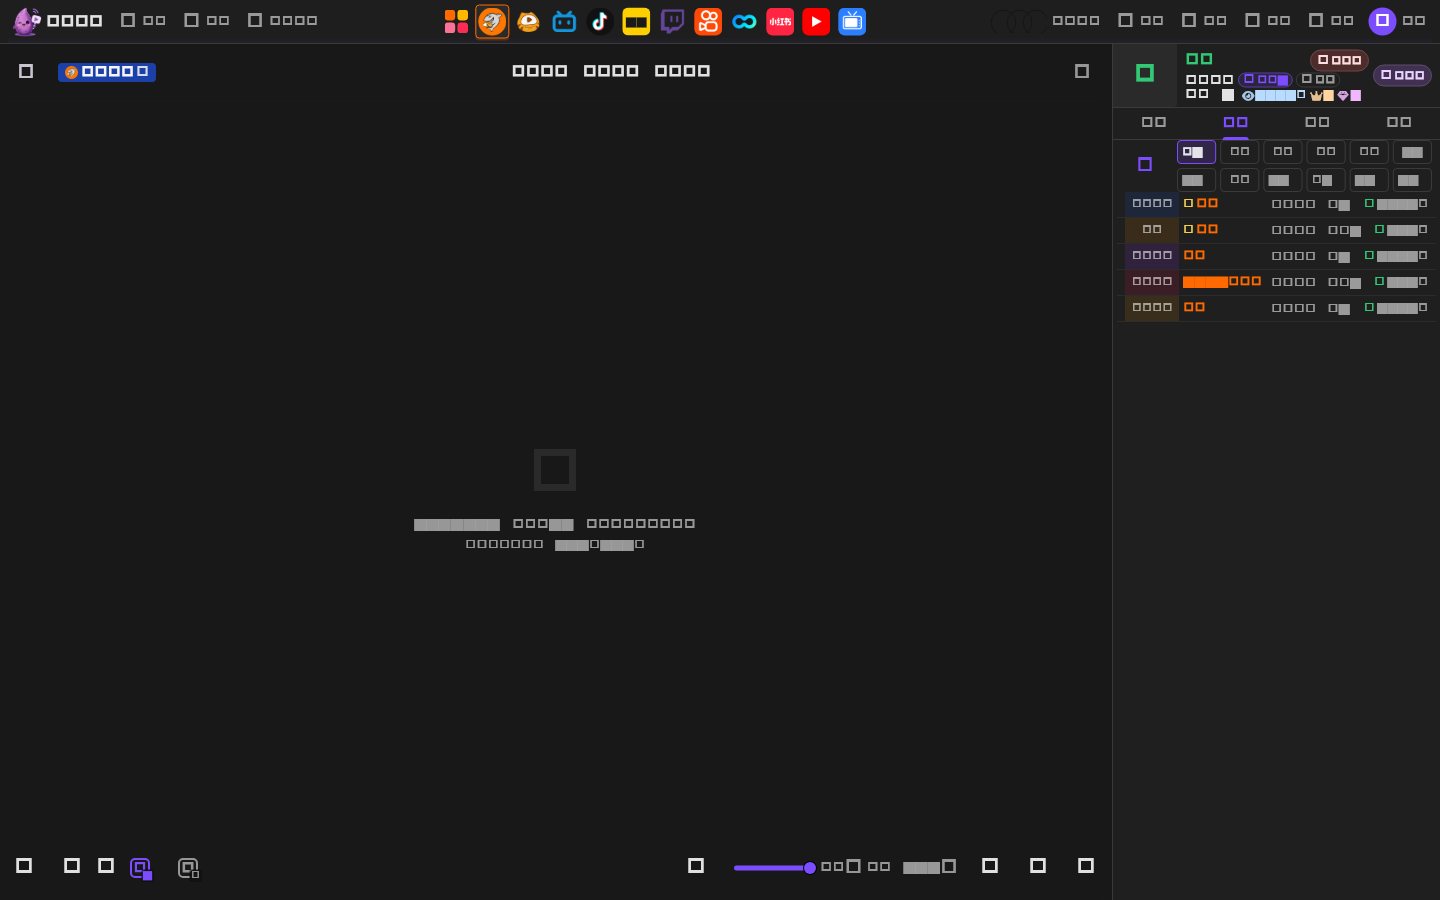
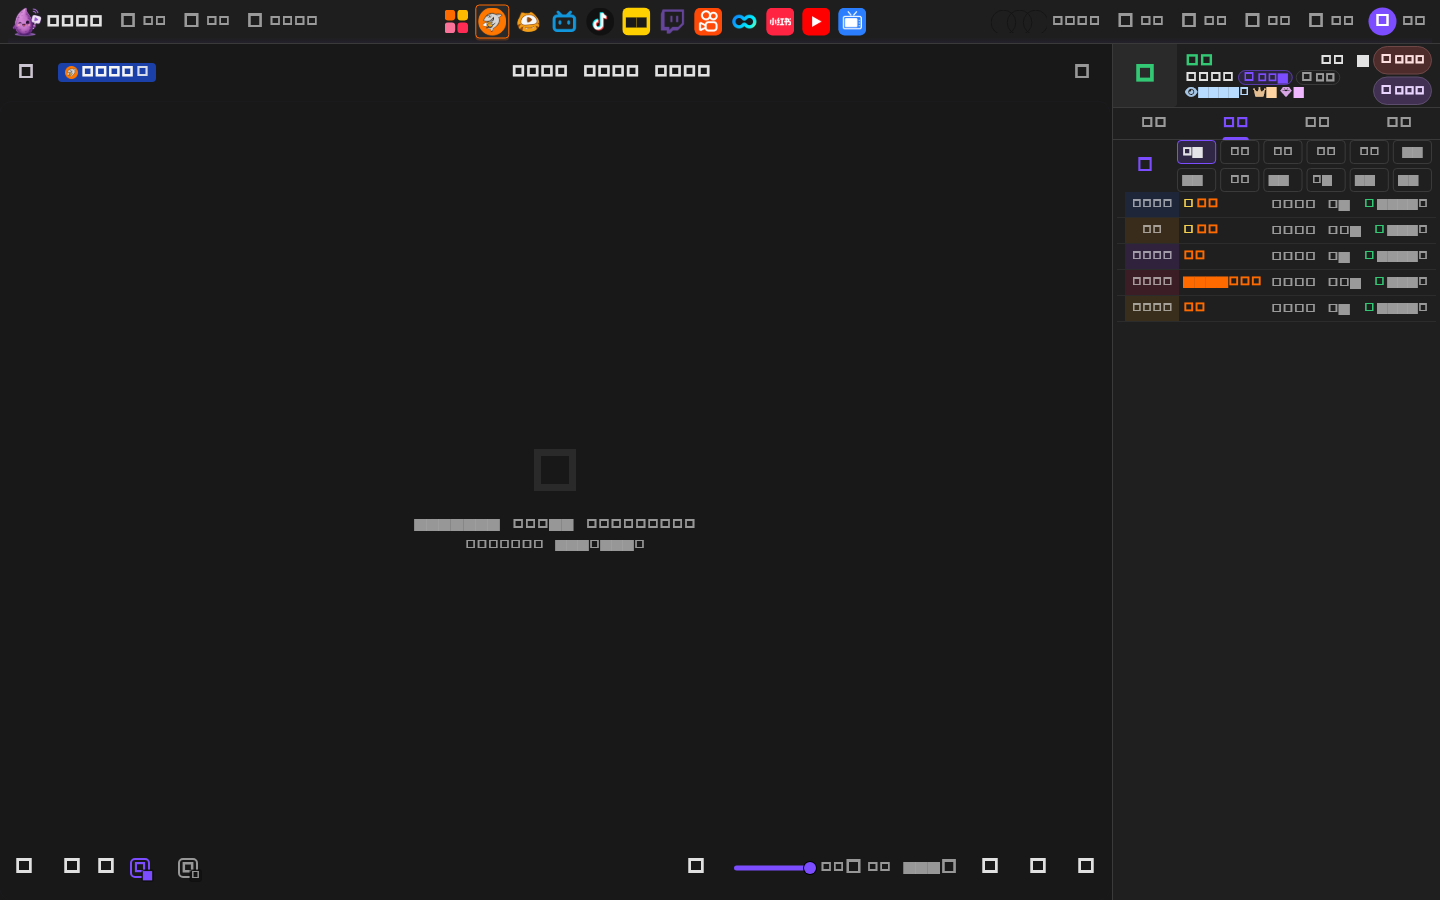
修正侧栏信息头:粉丝数移到第一排,右侧关注按钮恢复原样

Changed region(s): [[0.8125, 0.0311, 1.0, 0.1244]]

diff --git a/lib/src/features/play/widgets/side_panel/side_panel_header.dart b/lib/src/features/play/widgets/side_panel/side_panel_header.dart
@@ -93,7 +93,7 @@ class _SideHeader extends ConsumerWidget {
                 mainAxisAlignment: MainAxisAlignment.center,
                 crossAxisAlignment: CrossAxisAlignment.start,
                 children: [
-                  // 第一行:主播名(中文化) + 右侧「关注」。
+                  // 第一行:主播名(中文化) + 粉丝数「关注 N」。
                   Row(
                     children: [
                       Expanded(
@@ -113,31 +113,20 @@ class _SideHeader extends ConsumerWidget {
                         ),
                       ),
                       const SizedBox(width: AppSpacing.xs),
-                      SizedBox(
-                        width: 59,
-                        height: 22,
-                        child: _SideActionButton(
-                          key: const Key('play-side-follow-btn'),
-                          icon: followed
-                              ? Icons.favorite_rounded
-                              : Icons.favorite_border_rounded,
-                          label: followed ? '已关注' : '关注',
-                          selected: followed,
-                          colors: _ActionChipColors(
-                            background: tokens.playFollowBg,
-                            hoverBackground: tokens.playFollowBgHover,
-                            activeBackground: tokens.playFollowBgActive,
-                            border: tokens.playFollowBorder,
-                            foreground: tokens.playFollowText,
-                            activeForeground: tokens.playFollowTextActive,
-                          ),
-                          onPressed: onToggleFollow,
+                      // 粉丝数(用户口径 2026-09-22:放第一排昵称右侧)。
+                      Text(
+                        '关注 $followersText',
+                        key: const Key('play-side-stat-followers'),
+                        maxLines: 1,
+                        overflow: TextOverflow.ellipsis,
+                        style: const TextStyle(
+                          fontSize: AppFontSize.bodySecondary,
+                          height: 1.08,
                         ),
                       ),
                     ],
                   ),
-                  // 分类显示在主播名后面那一行(用户口径 2026-09-19);
-                  // 关注数与人气/VIP 合并到同一统计行,控制头高不溢出。
+                  // 分类显示在主播名后面那一行(用户口径 2026-09-19)。
                   const SizedBox(height: 1),
                   Row(
                     children: [
@@ -183,9 +172,10 @@ class _SideHeader extends ConsumerWidget {
                     ],
                   ),
                   const SizedBox(height: 1),
-                  // 统计行:「关注 N」+ 人气 + VIP + 第 3 列(SVIP 档)。
+                  // 统计行:人气 + VIP + 第 3 列(SVIP 档)。「关注 N」已上移到
+                  // 第一排昵称右侧(用户口径 2026-09-22)。
                   // 整行收进一个 FittedBox(scaleDown)兜底 —— 328px 面板
-                  // 配 1.3x 系统字号时四段内容会顶到行宽上限,等比缩放优于
+                  // 配 1.3x 系统字号时多段内容会顶到行宽上限,等比缩放优于
                   // RenderFlex 溢出(本项目有过溢出史)。列间距用 xs 而非
                   // sm,为第 3 列腾出宽度。
                   Flexible(
@@ -195,17 +185,6 @@ class _SideHeader extends ConsumerWidget {
                       child: Row(
                         mainAxisSize: MainAxisSize.min,
                         children: [
-                          Text(
-                            '关注 $followersText',
-                            key: const Key('play-side-stat-followers'),
-                            maxLines: 1,
-                            overflow: TextOverflow.ellipsis,
-                            style: const TextStyle(
-                              fontSize: AppFontSize.bodySecondary,
-                              height: 1.08,
-                            ),
-                          ),
-                          const SizedBox(width: AppSpacing.sm),
                           // 人气/观众(web stats[0]「观众」列;online 为空 = 离线或
                           // 尚未刷新回填,显示「—」)。
                           _StatValue(
@@ -257,7 +236,9 @@ class _SideHeader extends ConsumerWidget {
               right: AppSpacing.sm,
             ),
             child: _SideActions(
+              followed: followed,
               superFollowed: superFollowed,
+              onToggleFollow: onToggleFollow,
               onToggleSuperFollow: onToggleSuperFollow,
             ),
           ),
@@ -453,14 +434,17 @@ class _SideTextAction extends StatelessWidget {
   }
 }
 
-/// 侧栏头右侧只保留「超关」;「关注」已移到昵称那一行。
 class _SideActions extends StatelessWidget {
   const _SideActions({
+    required this.followed,
     required this.superFollowed,
+    required this.onToggleFollow,
     required this.onToggleSuperFollow,
   });
 
+  final bool followed;
   final bool superFollowed;
+  final VoidCallback onToggleFollow;
   final VoidCallback onToggleSuperFollow;
 
   @override
@@ -468,27 +452,49 @@ class _SideActions extends StatelessWidget {
     final tokens = context.tokens;
     return SizedBox(
       width: 59,
-      child: Center(
-        child: SizedBox(
-          height: 22,
-          child: _SideActionButton(
-            key: const Key('play-side-super-follow'),
-            icon: superFollowed
-                ? Icons.star_rounded
-                : Icons.star_border_rounded,
-            label: superFollowed ? '已超关' : '超关',
-            selected: superFollowed,
-            colors: _ActionChipColors(
-              background: tokens.playSuperBg,
-              hoverBackground: tokens.playSuperBgHover,
-              activeBackground: tokens.playSuperBgActive,
-              border: tokens.playSuperBorder,
-              foreground: tokens.playSuperText,
-              activeForeground: tokens.playSuperTextActive,
+      child: Column(
+        mainAxisAlignment: MainAxisAlignment.center,
+        children: [
+          Expanded(
+            child: _SideActionButton(
+              key: const Key('play-side-follow-btn'),
+              icon: followed
+                  ? Icons.favorite_rounded
+                  : Icons.favorite_border_rounded,
+              label: followed ? '已关注' : '关注',
+              selected: followed,
+              colors: _ActionChipColors(
+                background: tokens.playFollowBg,
+                hoverBackground: tokens.playFollowBgHover,
+                activeBackground: tokens.playFollowBgActive,
+                border: tokens.playFollowBorder,
+                foreground: tokens.playFollowText,
+                activeForeground: tokens.playFollowTextActive,
+              ),
+              onPressed: onToggleFollow,
             ),
-            onPressed: onToggleSuperFollow,
           ),
-        ),
+          const SizedBox(height: 2),
+          Expanded(
+            child: _SideActionButton(
+              key: const Key('play-side-super-follow'),
+              icon: superFollowed
+                  ? Icons.star_rounded
+                  : Icons.star_border_rounded,
+              label: superFollowed ? '已超关' : '超关',
+              selected: superFollowed,
+              colors: _ActionChipColors(
+                background: tokens.playSuperBg,
+                hoverBackground: tokens.playSuperBgHover,
+                activeBackground: tokens.playSuperBgActive,
+                border: tokens.playSuperBorder,
+                foreground: tokens.playSuperText,
+                activeForeground: tokens.playSuperTextActive,
+              ),
+              onPressed: onToggleSuperFollow,
+            ),
+          ),
+        ],
       ),
     );
   }
